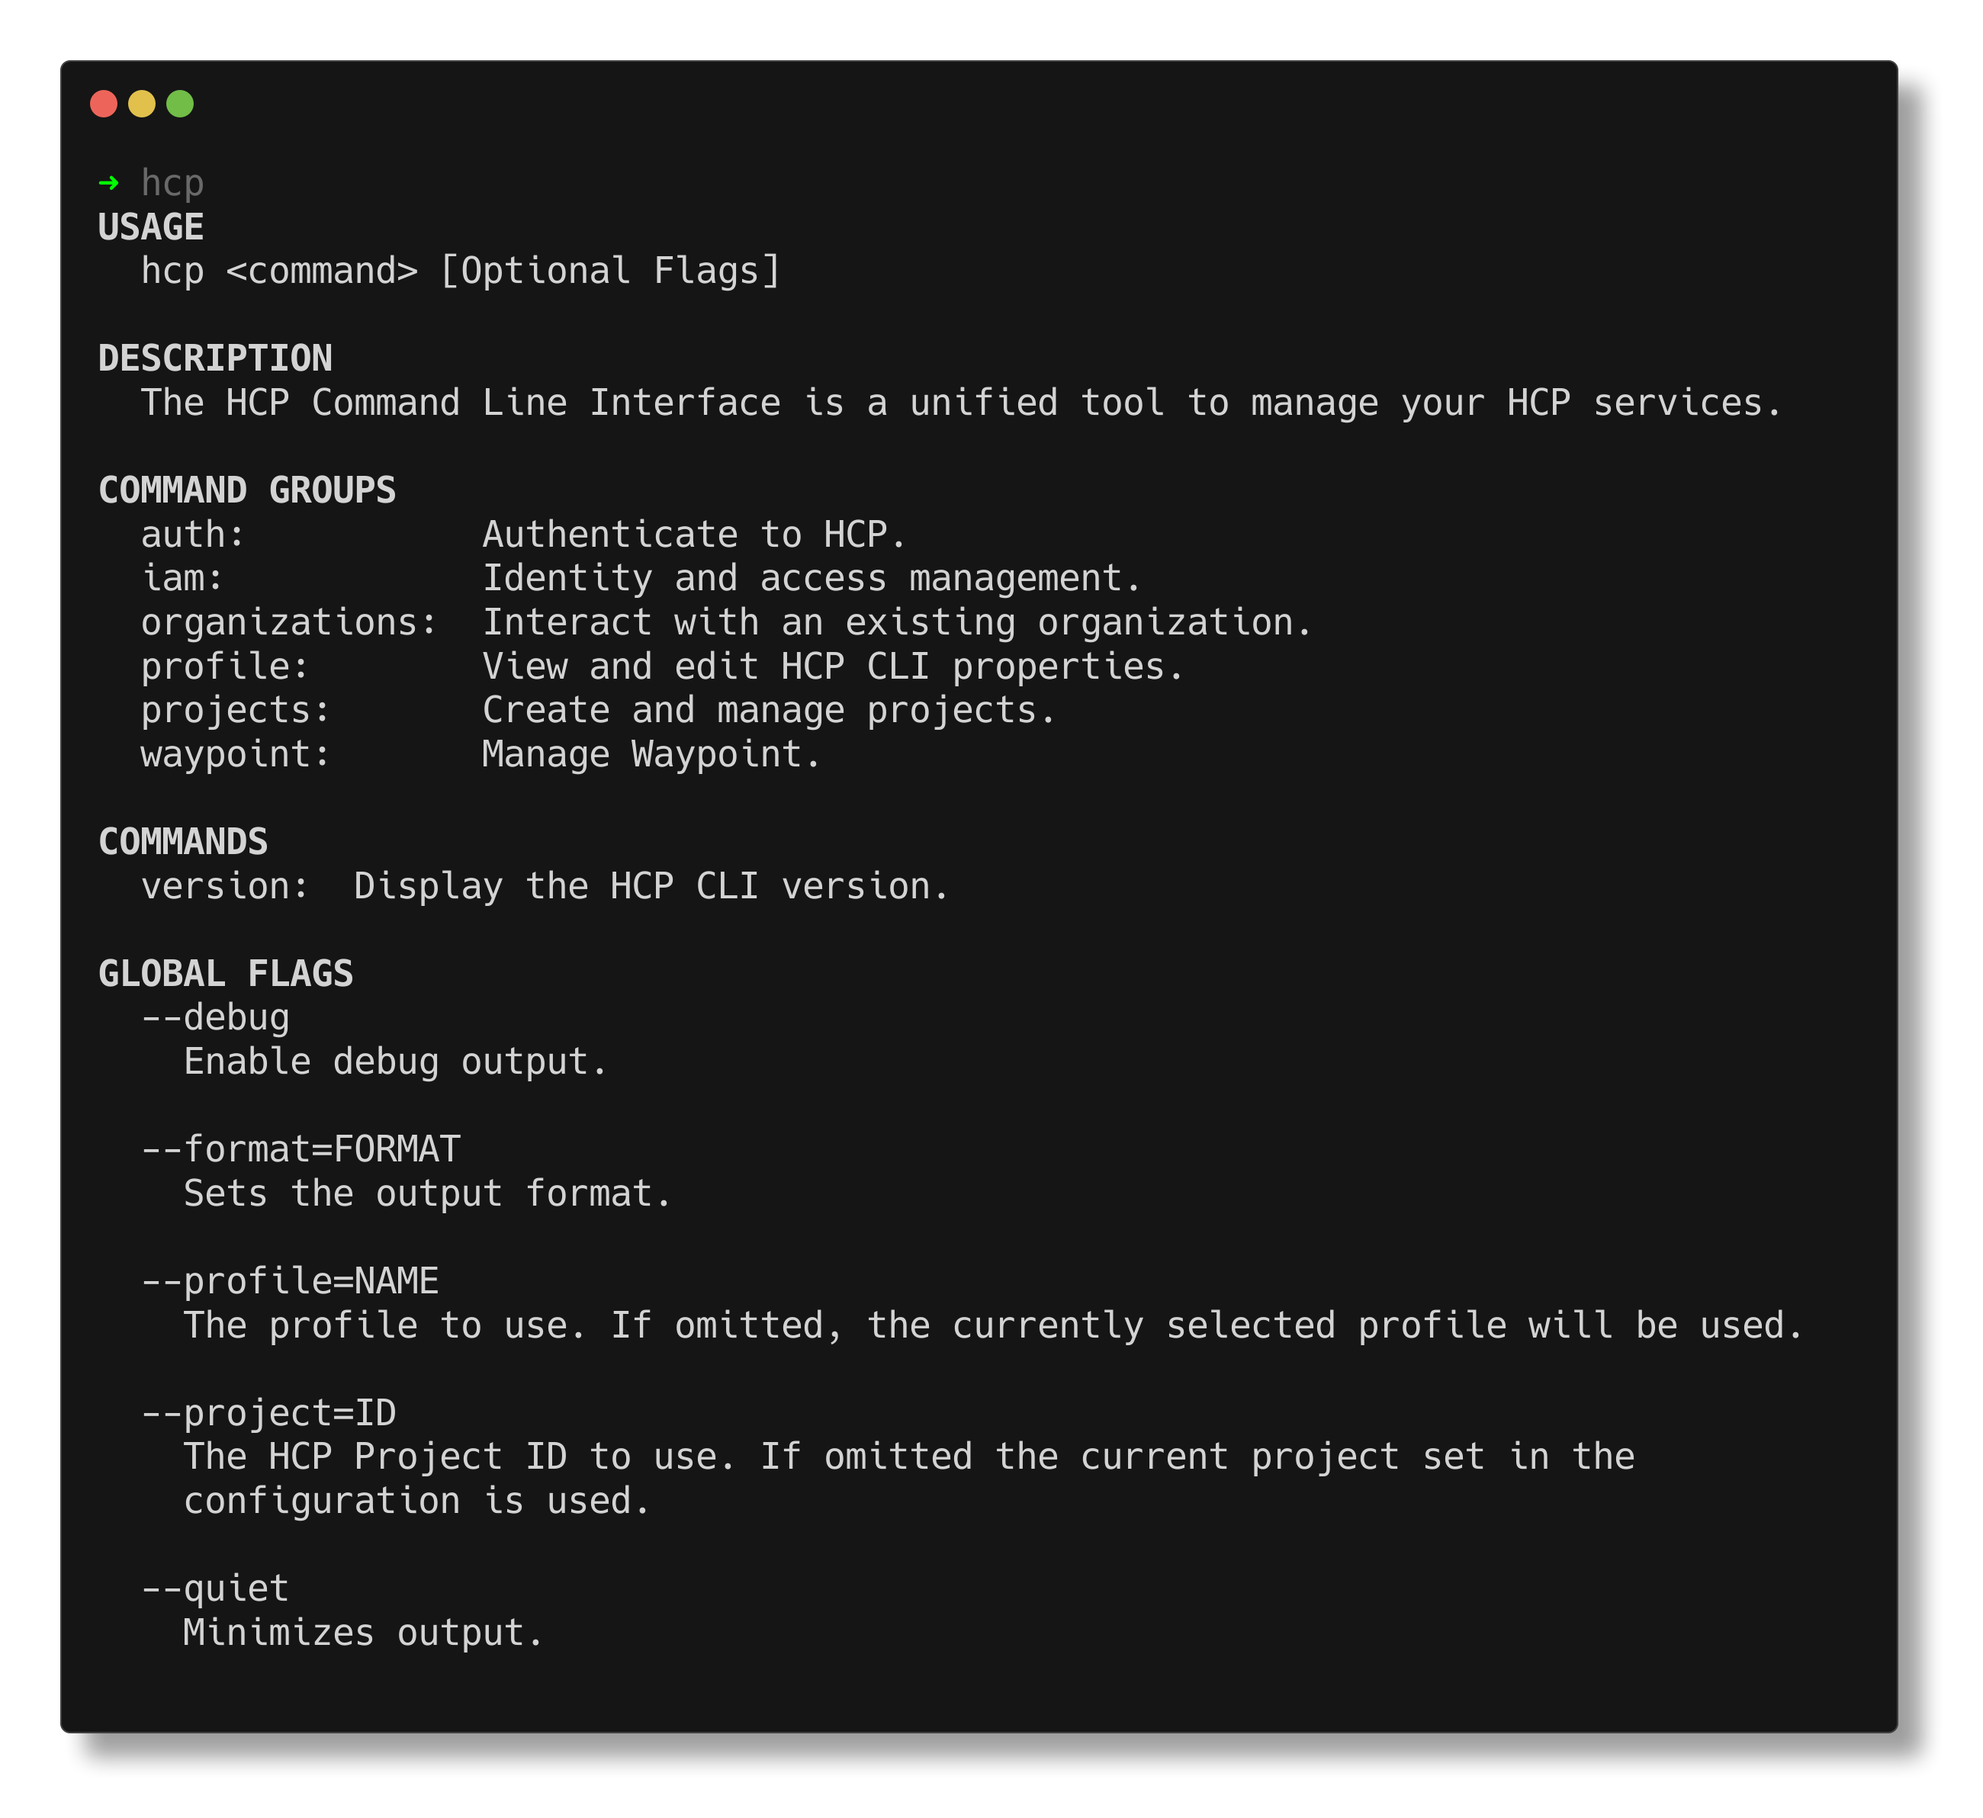
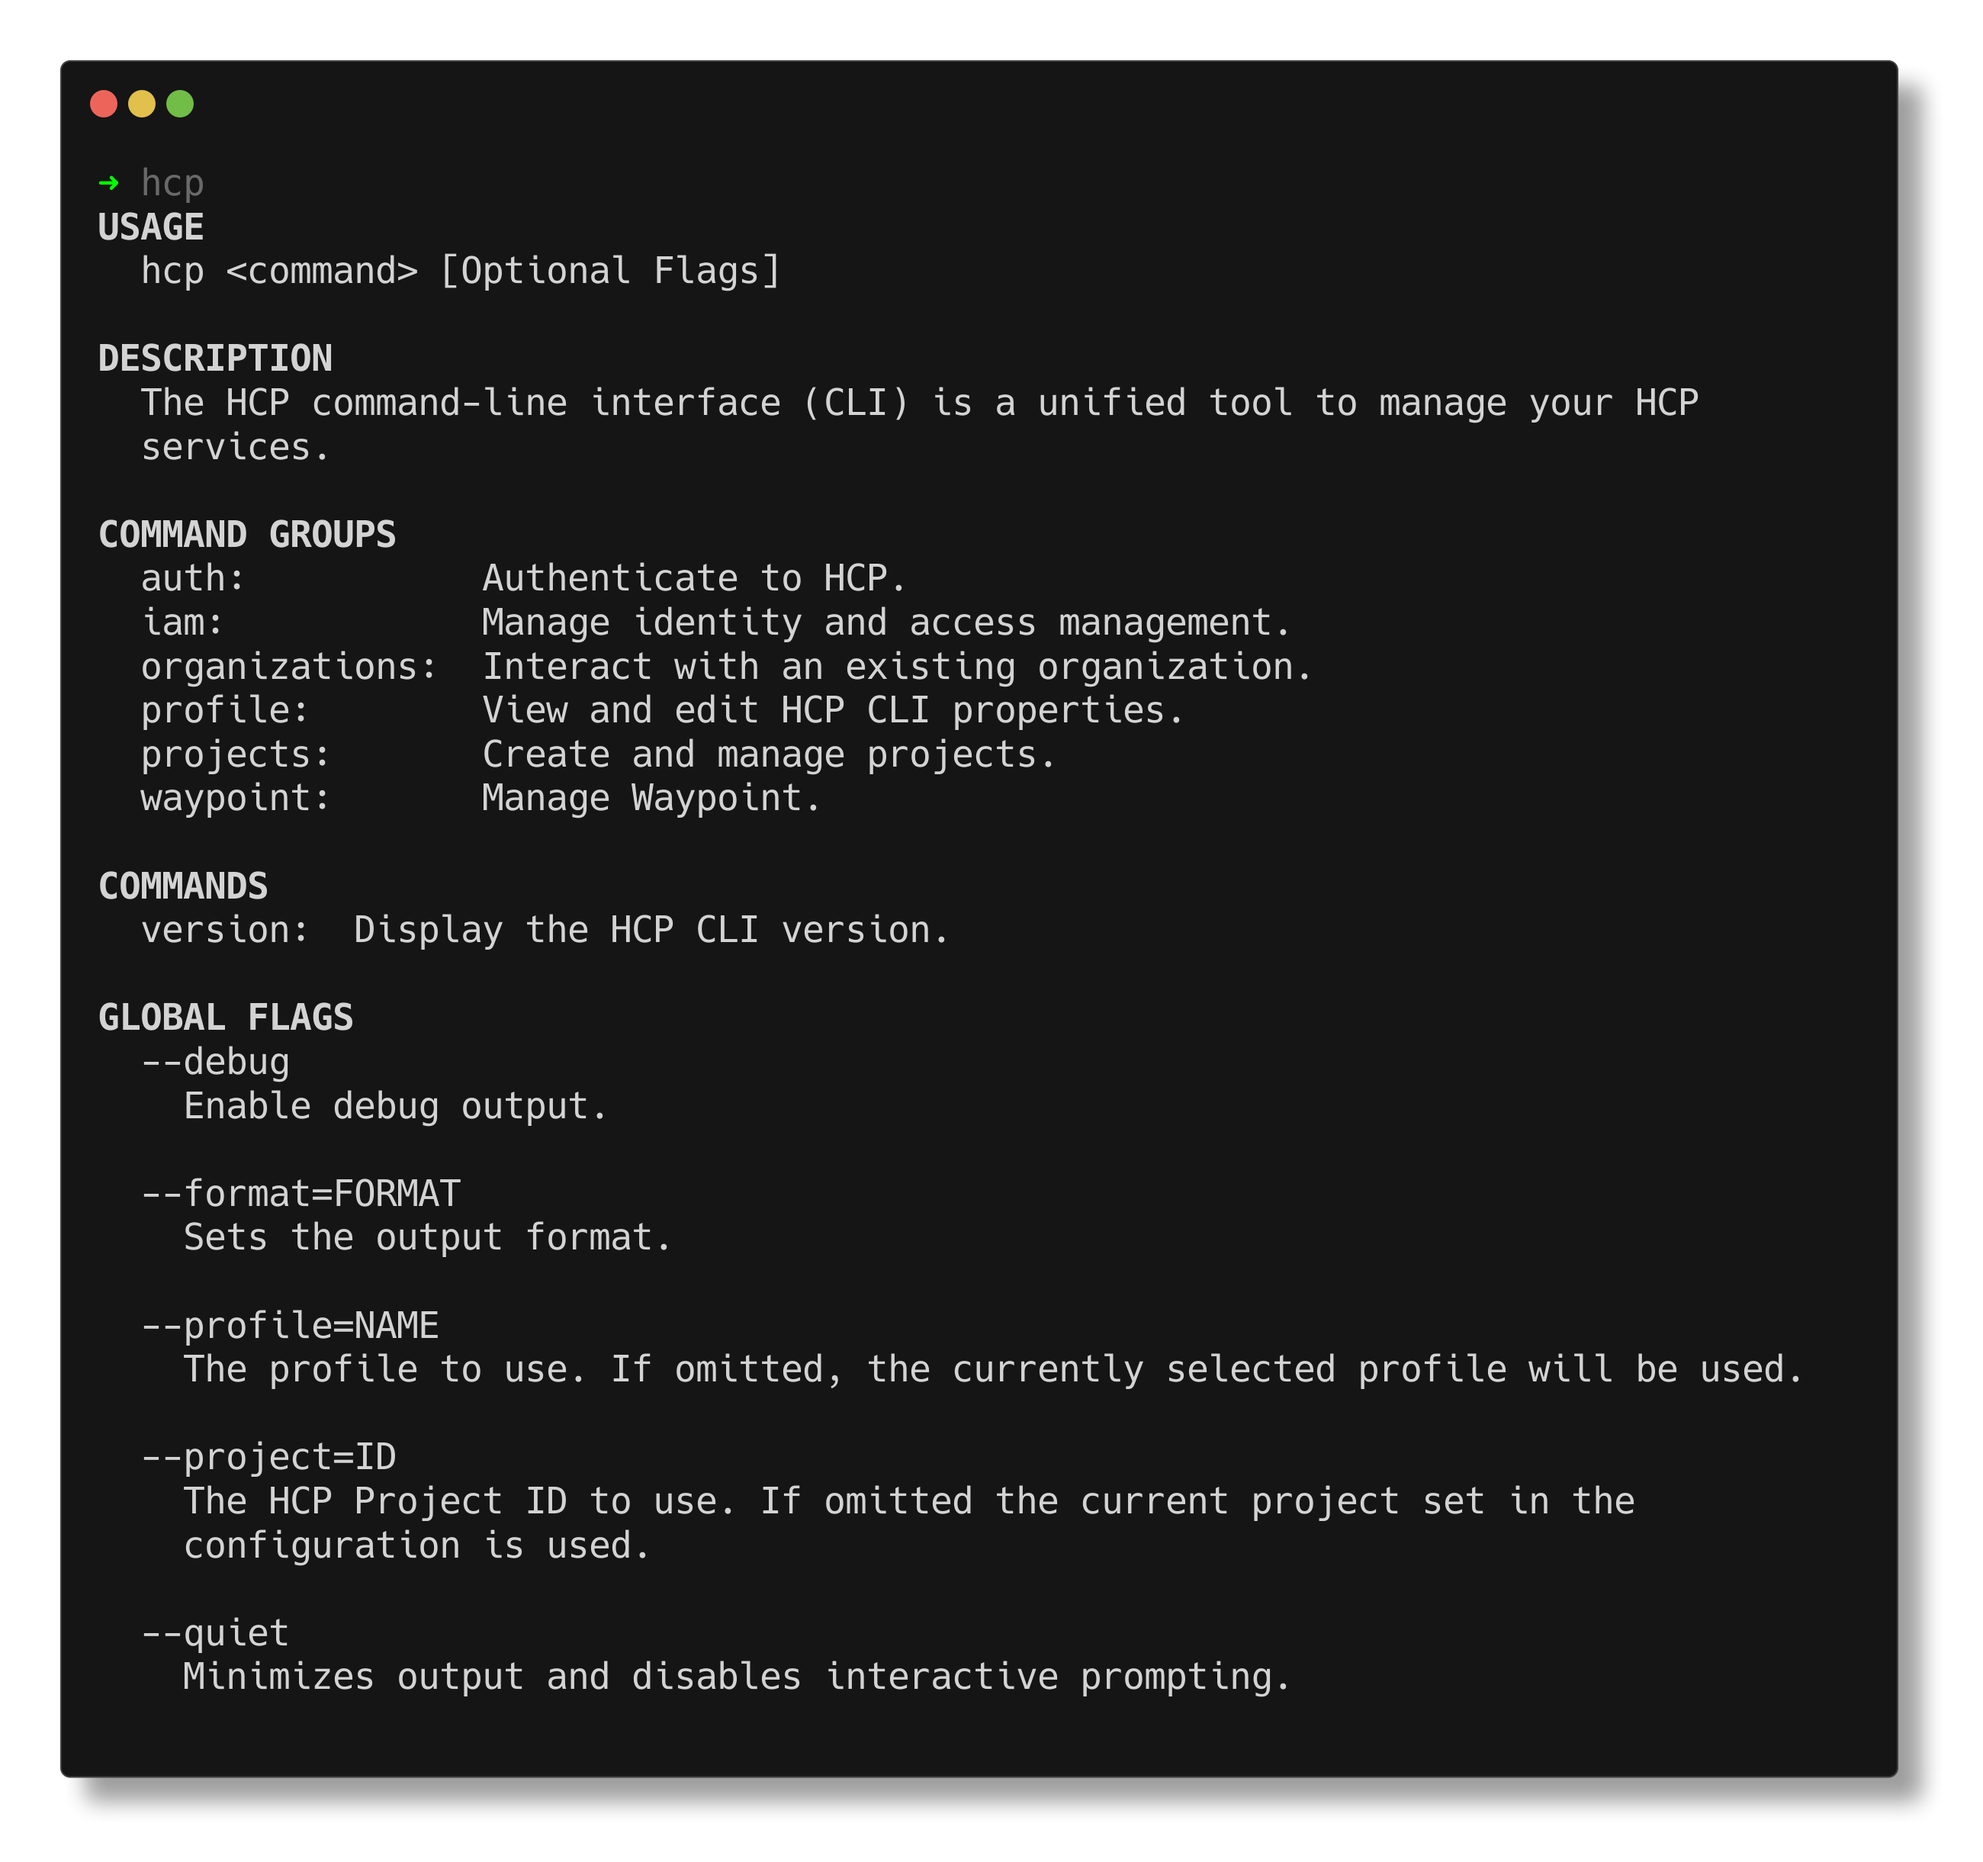
Improve quiet docs

diff --git a/internal/pkg/cmd/context.go b/internal/pkg/cmd/context.go
@@ -114,7 +114,7 @@ func ConfigureRootCommand(ctx *Context, cmd *Command) {
 		Autocomplete: complete.PredictSet(formats...),
 	}, &Flag{
 		Name:          "quiet",
-		Description:   "Minimizes output.",
+		Description:   "Minimizes output and disables interactive prompting.",
 		Value:         flagvalue.Simple[bool](false, &ctx.flags.Quiet),
 		IsBooleanFlag: true,
 		global:        true,
